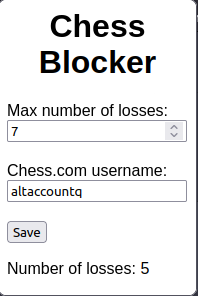
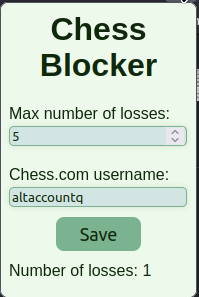
Improved CSS

diff --git a/Chrome/style.css b/Chrome/style.css
@@ -1,9 +1,58 @@
+:root {
+    --text: #0f280b;
+    --background: #edfaeb;
+    --primary: #7bb28f;
+    --secondary: #d2e5e2;
+    --accent: #57948c;
+    font-size: 16px;
+}
 body {
     font-family: "Segoe UI", "Lucida Grande", Tahoma, Arial, sans-serif;
     font-size: 100%;
+    background-color: var(--background);
+    color: var(--text);
 }
-
 h1 {
     margin-top: 0px;
     text-align: center;
+    color: var(--text);
+}
+form {
+    background-color: var(--background);
+}
+input[type="text"], input[type="number"] {
+    background-color: var(--secondary);
+    color: var(--text);
+    border-radius: 5px;
+    border: 1px solid var(--primary);
+    box-shadow: 0px 0px 5px rgba(0,0,0,0.1);
+    margin-top: 3px;
+}
+input[type="text"]:focus, input[type="number"]:focus {
+    outline: none;
+    border-color: var(--accent);
+    border-width: 2px;
+}
+input[type="submit"] {
+    background-color: var(--primary);
+    color: var(--text);
+    border: none;
+    border-radius: 8px;
+    text-align: center;
+    text-decoration: none;
+    display: inline-block;
+    font-size: 18px;
+    padding: 0.35em 1.3em;
+    transition-duration: 0.4s;
+    cursor: pointer;
+    display: block;
+    margin-left: auto;
+    margin-right: auto;
+    margin-top: 10px;
+}
+input[type="submit"]:hover {
+    opacity: 0.8;
+}
+p {
+    margin-top: 10px;
 }

diff --git a/Firefox/style.css b/Firefox/style.css
@@ -1,9 +1,58 @@
+:root {
+    --text: #0f280b;
+    --background: #edfaeb;
+    --primary: #7bb28f;
+    --secondary: #d2e5e2;
+    --accent: #57948c;
+    font-size: 16px;
+}
 body {
     font-family: "Segoe UI", "Lucida Grande", Tahoma, Arial, sans-serif;
     font-size: 100%;
+    background-color: var(--background);
+    color: var(--text);
 }
-
 h1 {
     margin-top: 0px;
     text-align: center;
+    color: var(--text);
+}
+form {
+    background-color: var(--background);
+}
+input[type="text"], input[type="number"] {
+    background-color: var(--secondary);
+    color: var(--text);
+    border-radius: 5px;
+    border: 1px solid var(--primary);
+    box-shadow: 0px 0px 5px rgba(0,0,0,0.1);
+    margin-top: 3px;
+}
+input[type="text"]:focus, input[type="number"]:focus {
+    outline: none;
+    border-color: var(--accent);
+    border-width: 2px;
+}
+input[type="submit"] {
+    background-color: var(--primary);
+    color: var(--text);
+    border: none;
+    border-radius: 8px;
+    text-align: center;
+    text-decoration: none;
+    display: inline-block;
+    font-size: 18px;
+    padding: 0.35em 1.3em;
+    transition-duration: 0.4s;
+    cursor: pointer;
+    display: block;
+    margin-left: auto;
+    margin-right: auto;
+    margin-top: 10px;
+}
+input[type="submit"]:hover {
+    opacity: 0.8;
+}
+p {
+    margin-top: 10px;
 }

diff --git a/Chrome/options.html b/Chrome/options.html
@@ -12,7 +12,7 @@
         <label for="max-games">Max number of losses:</label><br>
         <input type="number" id="max-games" name="max-games"><br><br>
         <label for="username">Chess.com username:</label><br>
-        <input type="text" id="username" name="username"><br><br>
+        <input type="text" id="username" name="username"><br>
         <input type="submit" value="Save">
     </form>
     <script src="options.js"></script>

diff --git a/Firefox/options.html b/Firefox/options.html
@@ -12,7 +12,7 @@
         <label for="max-games">Max number of losses:</label><br>
         <input type="number" id="max-games" name="max-games"><br><br>
         <label for="username">Chess.com username:</label><br>
-        <input type="text" id="username" name="username"><br><br>
+        <input type="text" id="username" name="username"><br>
         <input type="submit" value="Save">
     </form>
     <script src="options.js"></script>

diff --git a/Readme.md b/Readme.md
@@ -2,6 +2,12 @@
 
 A Chrome and Firefox extension that calculates a player's number of losses in the past day on chess.com. If this is greater than the maxGames number input by the user, the [chess.com/play/online](chess.com/play/online) page is blocked.
 
+## Links to download
+
+https://chrome.google.com/webstore/detail/chesscom-blocker/pacoipifgdogfclpkfmjomngfleabgfn/
+
+https://addons.mozilla.org/en-US/firefox/addon/chess-com-blocker/
+
 ## Installation
 **Chrome**
 
